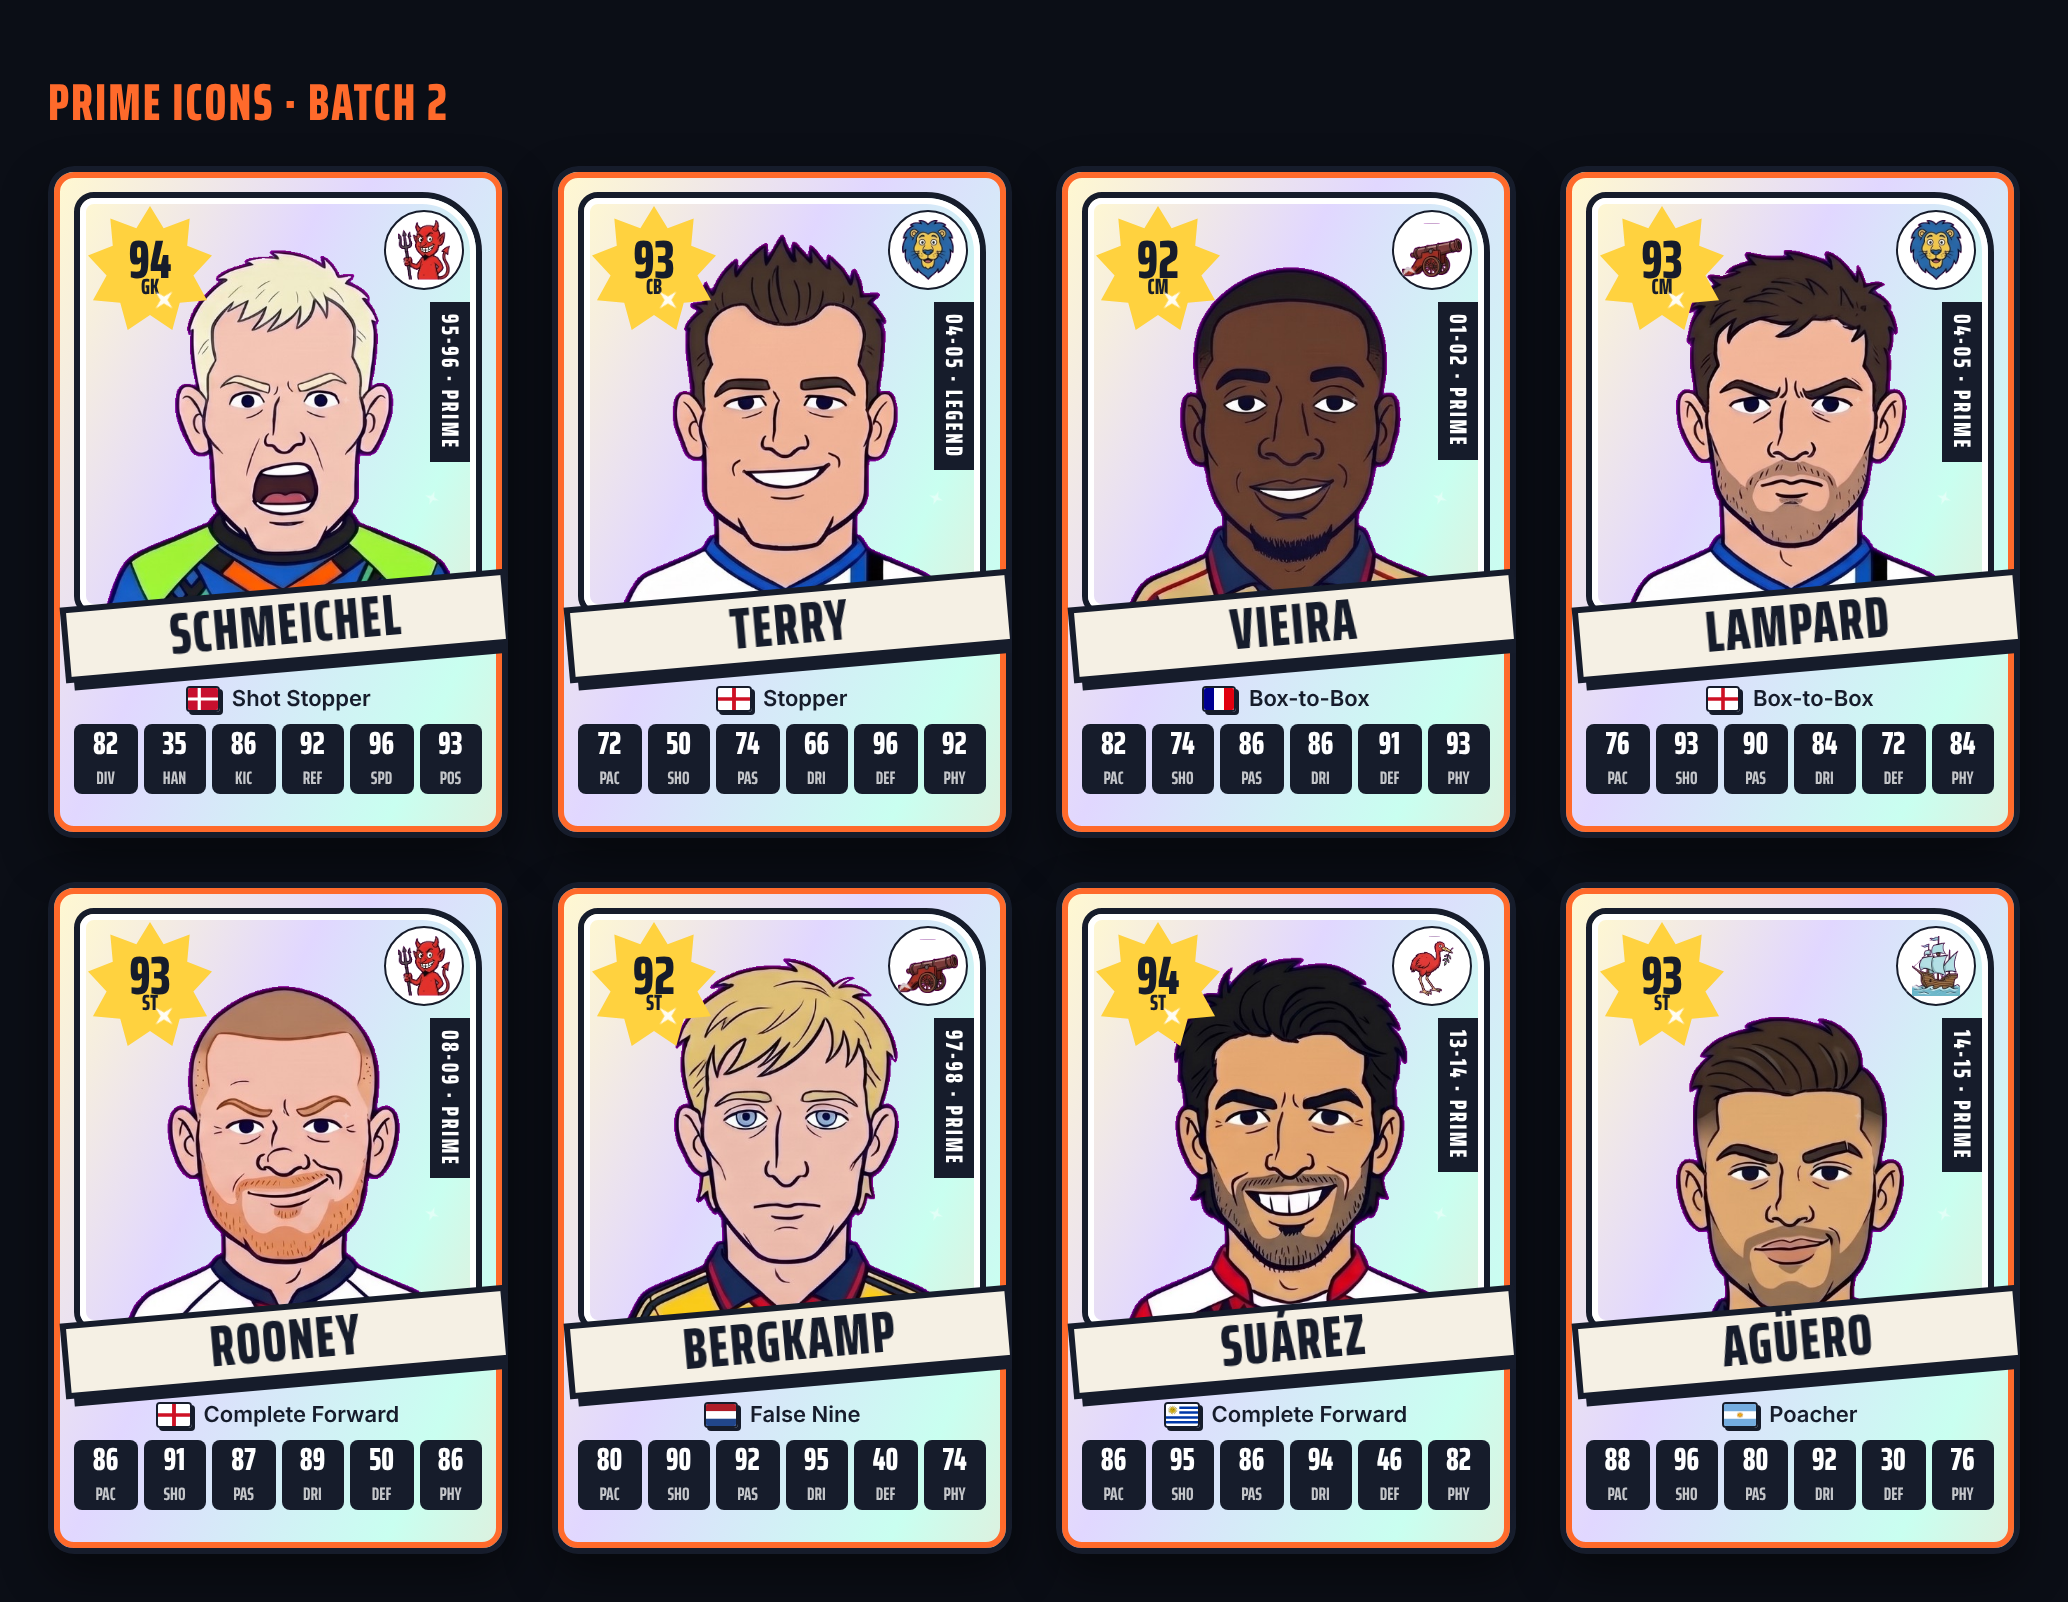
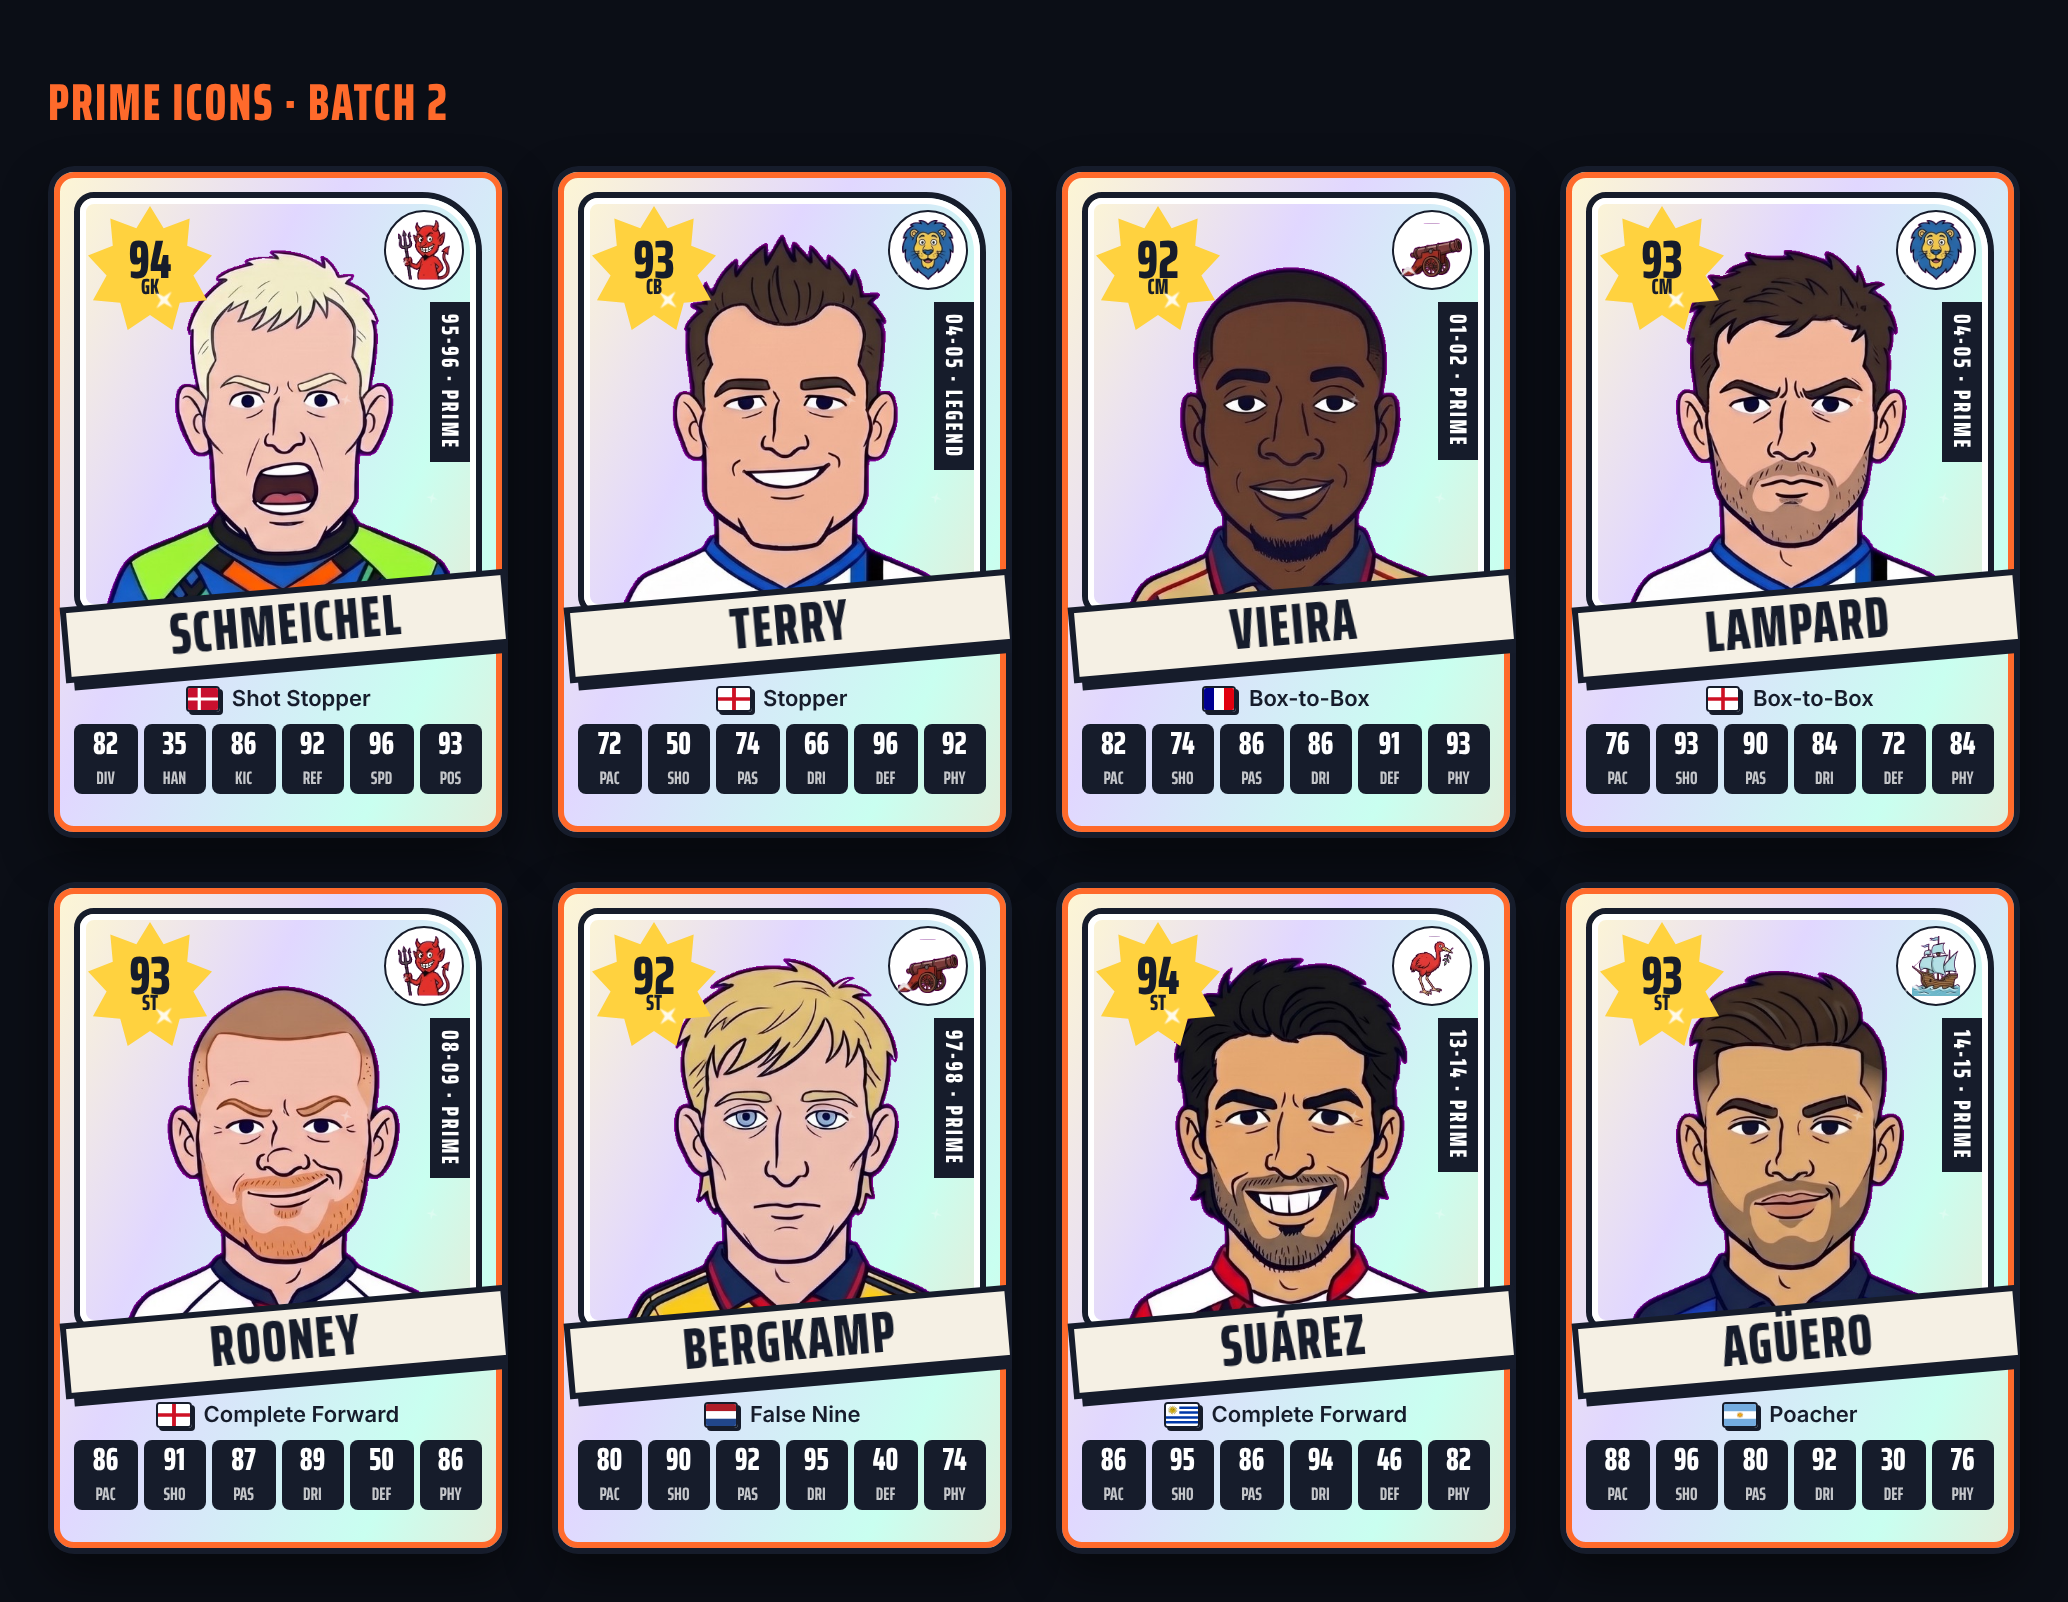
Fix grid cutter trimming dark shirts (Agüero sat too low)
Claude-Session: https://claude.ai/code/session_01Emr74XbWxMFWWGtoF4YCQE

Changed region(s): [[0.7737, 0.593, 0.9284, 0.8427]]

diff --git a/design/flow/tools/cut_grid.py b/design/flow/tools/cut_grid.py
@@ -64,7 +64,7 @@ for y0, y1 in ys:
             idx = range(len(m) - 1, -1, -1) if rev else range(len(m))
             n = 0
             for i in idx:
-                if m[i] > 0.3:
+                if m[i] > 0.3 and n < 10:  # border lines are thin; never eat into a dark shirt
                     n += 1
                 else:
                     break
